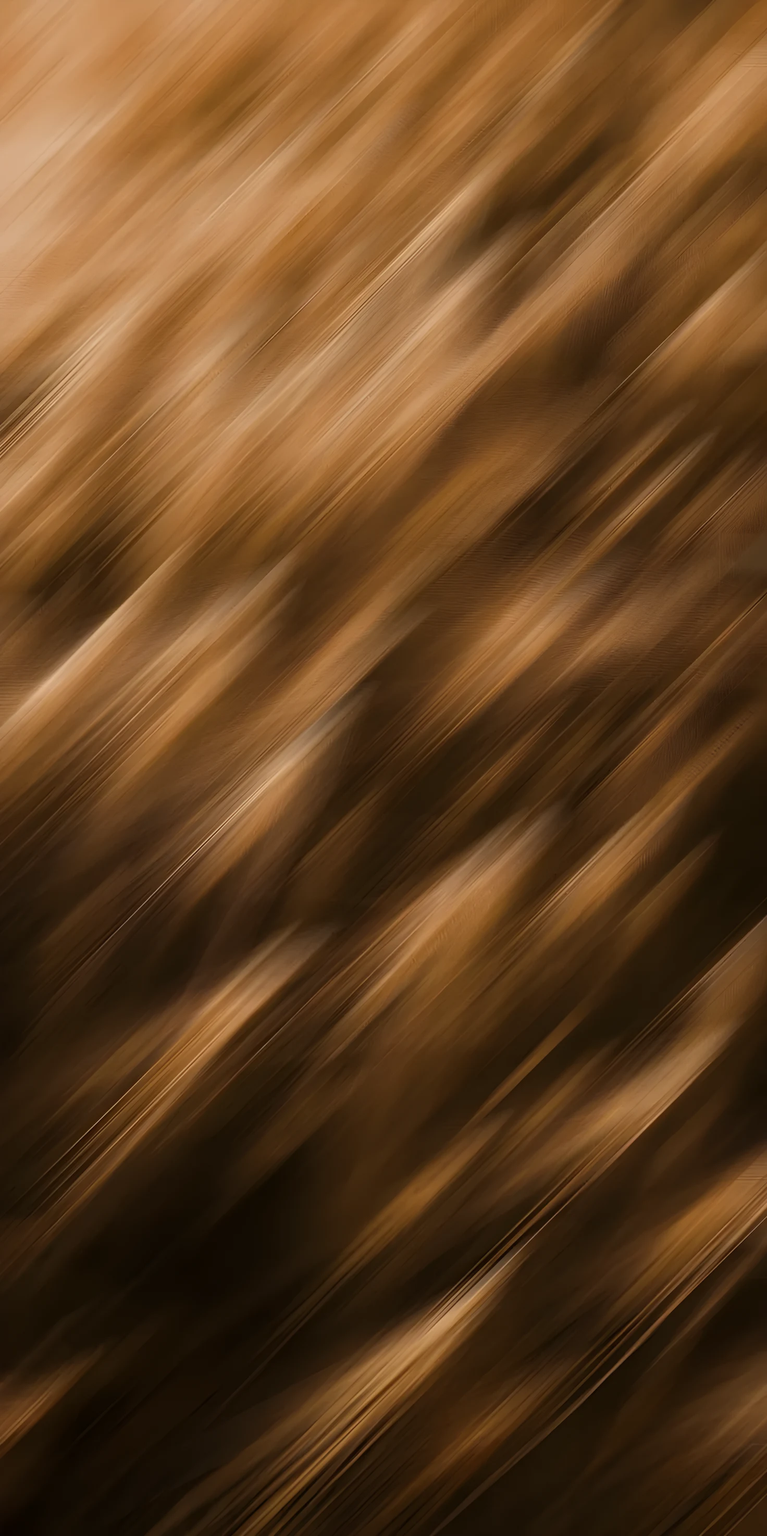
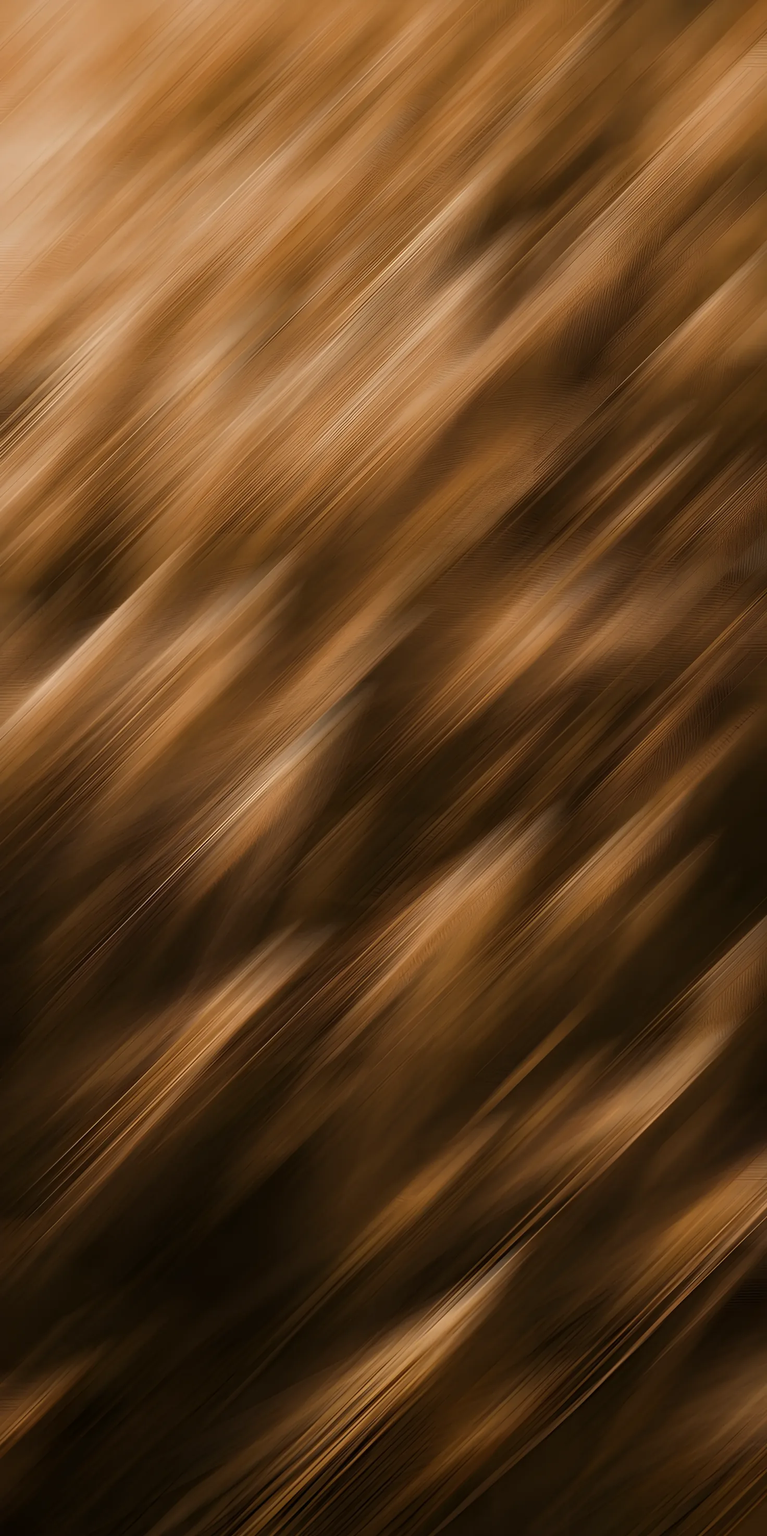
site: DPR2 backgrounds up to 2880 (Austria from Kling, cta/course hero from ESRGAN)
Austria (S11) regenerated in Kling Image 3.0 Omni at 4096 from the Figma source:
reeded glass drawn natively, no moire; a1/a1@2x/a1@3x cut from it.
cta-bg and course/blog hero-bg use the ESRGAN x4 results (f330e01):
cta-bg@2x/@3x (2048/2880), hero-bg@2x/@4x (1472/2944). srcsets extended.

Claude-Session: https://claude.ai/code/session_01As2tBV6Dj9gNXDHR4omdXn

diff --git a/apps/site/components/CourseFlow.tsx b/apps/site/components/CourseFlow.tsx
@@ -727,7 +727,7 @@ export function CoursePage() {
       <Header />
       <main>
         <section className="dark-hero" data-s="k01">
-          <img className="bg" src="/figma/course/hero-bg.webp" srcSet="/figma/course/hero-bg.webp 736w, /figma/course/hero-bg@2x.webp 1472w" sizes="100vw" alt="" />
+          <img className="bg" src="/figma/course/hero-bg.webp" srcSet="/figma/course/hero-bg.webp 736w, /figma/course/hero-bg@2x.webp 1472w, /figma/course/hero-bg@4x.webp 2944w" sizes="100vw" alt="" />
           <div className="shade" />
           <div className="wrap inner">
             <div className="kf-hero-row">
@@ -874,7 +874,7 @@ export function CoursePage() {
         </section>
 
         <section className="kf-includes" id="includes" data-s="k05">
-          <img className="kf-includes-bg" src="/figma/course/hero-bg.webp" srcSet="/figma/course/hero-bg.webp 736w, /figma/course/hero-bg@2x.webp 1472w" sizes="100vw" alt="" />
+          <img className="kf-includes-bg" src="/figma/course/hero-bg.webp" srcSet="/figma/course/hero-bg.webp 736w, /figma/course/hero-bg@2x.webp 1472w, /figma/course/hero-bg@4x.webp 2944w" sizes="100vw" alt="" />
           <div className="kf-includes-shade" />
           <div className="wrap kf-includes-in">
             <h2>Что входит в курс</h2>
@@ -920,7 +920,7 @@ export function CoursePage() {
         </section>
 
         <section className="kf-final" data-s="k07">
-          <img src="/figma/course/cta-bg.webp" srcSet="/figma/course/cta-bg.webp 1024w, /figma/course/cta-bg@2x.webp 2048w" sizes="100vw" alt="" />
+          <img src="/figma/course/cta-bg.webp" srcSet="/figma/course/cta-bg.webp 1024w, /figma/course/cta-bg@2x.webp 2048w, /figma/course/cta-bg@3x.webp 2880w" sizes="100vw" alt="" />
           <div className="kf-includes-shade" />
           <div className="wrap kf-final-in">
             <i className="kf-bar" data-rv="0" />

diff --git a/apps/site/components/ArticleView.tsx b/apps/site/components/ArticleView.tsx
@@ -81,7 +81,7 @@ function Blocks({ blocks }: { blocks: Block[] }) {
           );
         return (
           <aside className="article-cta rv rv-24" key={index}>
-            <img className="bokeh" src="/figma/course/cta-bg.webp" srcSet="/figma/course/cta-bg.webp 1024w, /figma/course/cta-bg@2x.webp 2048w" sizes="100vw" alt="" />
+            <img className="bokeh" src="/figma/course/cta-bg.webp" srcSet="/figma/course/cta-bg.webp 1024w, /figma/course/cta-bg@2x.webp 2048w, /figma/course/cta-bg@3x.webp 2880w" sizes="100vw" alt="" />
             <div className="shade" />
             <h2>{block.title}</h2>
             <p>{block.text}</p>
@@ -459,7 +459,7 @@ export function ArticleView({ article }: { article: Article }) {
             </div>
             <aside className="aside">
               <div className="aside-card is-off" ref={asideRef}>
-                <img className="bokeh" src="/figma/course/cta-bg.webp" srcSet="/figma/course/cta-bg.webp 1024w, /figma/course/cta-bg@2x.webp 2048w" sizes="100vw" alt="" />
+                <img className="bokeh" src="/figma/course/cta-bg.webp" srcSet="/figma/course/cta-bg.webp 1024w, /figma/course/cta-bg@2x.webp 2048w, /figma/course/cta-bg@3x.webp 2880w" sizes="100vw" alt="" />
                 <div className="shade" />
                 <h2>Записаться на тест</h2>
                 <p>286 продуктов, один забор крови, результат через 7–10 дней. Стоимость устанавливает лаборатория.</p>

diff --git a/apps/site/app/report/page.tsx b/apps/site/app/report/page.tsx
@@ -238,7 +238,7 @@ export default function Page() {
             <ReportFaq />
 
             <section data-s="cta" className="rf-cta d-only">
-              <img src="/figma/course/cta-bg.webp" srcSet="/figma/course/cta-bg.webp 1024w, /figma/course/cta-bg@2x.webp 2048w" sizes="100vw" alt="" />
+              <img src="/figma/course/cta-bg.webp" srcSet="/figma/course/cta-bg.webp 1024w, /figma/course/cta-bg@2x.webp 2048w, /figma/course/cta-bg@3x.webp 2880w" sizes="100vw" alt="" />
               <div className="rf-cta-shade" />
               <div className="rf-cta-copy">
                 <h2>Готовы сдать тест или нужно обсудить отчёт?</h2>
@@ -256,7 +256,7 @@ export default function Page() {
               <i />
               <h2>Готовы сдать тест или нужно обсудить отчёт?</h2>
               <p>Выберите лабораторию-партнёра или покажите эту страницу своему врачу.</p>
-              <img src="/figma/course/cta-bg.webp" srcSet="/figma/course/cta-bg.webp 1024w, /figma/course/cta-bg@2x.webp 2048w" sizes="100vw" alt="" />
+              <img src="/figma/course/cta-bg.webp" srcSet="/figma/course/cta-bg.webp 1024w, /figma/course/cta-bg@2x.webp 2048w, /figma/course/cta-bg@3x.webp 2880w" sizes="100vw" alt="" />
               <Link className="btn btn-dark" href="/labs">Где сдать тест</Link>
               <ShareButton />
             </section>

diff --git a/apps/site/components/BlogFeed.tsx b/apps/site/components/BlogFeed.tsx
@@ -506,7 +506,7 @@ export function BlogFeed() {
           <div>
             {featured && featuredAuthor && (
               <Link href={`/blog/${featured.slug}`} className="featured featured-in">
-                <img className="featured-bg" src="/figma/course/hero-bg.webp" srcSet="/figma/course/hero-bg.webp 736w, /figma/course/hero-bg@2x.webp 1472w" sizes="100vw" alt="" />
+                <img className="featured-bg" src="/figma/course/hero-bg.webp" srcSet="/figma/course/hero-bg.webp 736w, /figma/course/hero-bg@2x.webp 1472w, /figma/course/hero-bg@4x.webp 2944w" sizes="100vw" alt="" />
                 <div className="featured-shade" />
                 <div className="featured-photo">
                   <img className="photo-in" src={featured.cover} alt="" />
@@ -630,7 +630,7 @@ export function BlogFeed() {
 
         <section className="wrap cta-band" data-s="b04">
           <article className="cta" ref={ctaRef}>
-            <img className="bokeh" src="/figma/course/cta-bg.webp" srcSet="/figma/course/cta-bg.webp 1024w, /figma/course/cta-bg@2x.webp 2048w" sizes="100vw" alt="" />
+            <img className="bokeh" src="/figma/course/cta-bg.webp" srcSet="/figma/course/cta-bg.webp 1024w, /figma/course/cta-bg@2x.webp 2048w, /figma/course/cta-bg@3x.webp 2880w" sizes="100vw" alt="" />
             <div className="shade" />
             <div>
               <h2>Не уверены, что симптомы связаны с едой?</h2>

diff --git a/apps/site/app/globals.css b/apps/site/app/globals.css
@@ -1017,7 +1017,7 @@ body:has(.mobile-menu) .ls-sticky { display: none !important; }
 .map {
   height: 420px; border-radius: 24px; background:
     linear-gradient(180deg, rgba(248,249,246,.2), rgba(248,249,246,.05)),
-    url('/figma/course/cta-bg@2x.webp') center/cover;
+    url('/figma/course/cta-bg@3x.webp') center/cover;
   border: 1px solid var(--ink-10); position: relative;
 }
 .pin { position: absolute; width: 14px; height: 14px; border-radius: 999px; background: var(--lime); border: 2px solid var(--ink); }
@@ -3401,7 +3401,7 @@ body .m04 .btn { width: auto; height: 48px; padding: 12px 16px; border-radius: 4
 
 /* ==== /specialists sweep (1120:3113 | 1317:6392) ==== */
 @media (min-width: 1101px) {
-  body [data-s="p04"].sp-dark { background-image: url("/figma/course/cta-bg@2x.webp"); background-size: cover; background-position: center; }
+  body [data-s="p04"].sp-dark { background-image: url("/figma/course/cta-bg@3x.webp"); background-size: cover; background-position: center; }
   body [data-s="p09"] .sp-fan, body [data-s="p09"] .sp-fan-cap { display: none; }
 }
 body [data-s="p08"].sp-grey { background: #d7d8cd; }

diff --git a/apps/site/app/adaptive/specialists.css b/apps/site/app/adaptive/specialists.css
@@ -76,7 +76,7 @@
   /* P04: фон-фото и тонировка как на десктопе, 4 шага → сетка 2 × 2, линия скрыта
      (заметка P04: «На 1024 — шаги 2×2, линия скрывается»). */
   [data-s="p04"] .sp-route-line { display: none; }
-  body [data-s="p04"].sp-dark { background-image: url("/figma/course/cta-bg@2x.webp"); background-size: cover; background-position: center; }
+  body [data-s="p04"].sp-dark { background-image: url("/figma/course/cta-bg@3x.webp"); background-size: cover; background-position: center; }
   body [data-s="p04"].sp-dark::before { content: ""; position: absolute; inset: 0; background: rgba(33, 37, 29, 0.86); pointer-events: none; }
   body [data-s="p04"].sp-dark > .wrap { position: relative; z-index: 1; }
   [data-s="p04"] .sp-steps { display: grid; grid-template-columns: repeat(2, minmax(0, 1fr)); gap: 16px; overflow: visible; scroll-snap-type: none; }

diff --git a/apps/site/components/HomePage.tsx b/apps/site/components/HomePage.tsx
@@ -1482,7 +1482,7 @@ export function HomePage() {
             </div>
           </div>
           <div className="aus-photo" data-allow-x>
-            <img className="parallax" src="/figma/austria/a1.webp" srcSet="/figma/austria/a1.webp 1024w, /figma/austria/a1@2x.webp 2048w" sizes="(min-width: 2048px) 50vw, (min-width: 1101px) 1024px, (min-width: 900px) 800px, 100vw" alt="" />
+            <img className="parallax" src="/figma/austria/a1.webp" srcSet="/figma/austria/a1.webp 1024w, /figma/austria/a1@2x.webp 2048w, /figma/austria/a1@3x.webp 2880w" sizes="(min-width: 2048px) 50vw, (min-width: 1101px) 1024px, (min-width: 900px) 800px, 100vw" alt="" />
             <div className="aus-cards">
               {[
                 ["CE-IVDR", "Европейский стандарт для медизделий in vitro диагностики"],

diff --git a/apps/site/components/AuthorsBrowser.tsx b/apps/site/components/AuthorsBrowser.tsx
@@ -191,7 +191,7 @@ export function AuthorsBrowser() {
         </section>
         <section className="wrap cta-band" data-s="au03">
           <article className="cta">
-            <img className="bokeh" src="/figma/course/cta-bg.webp" srcSet="/figma/course/cta-bg.webp 1024w, /figma/course/cta-bg@2x.webp 2048w" sizes="100vw" alt="" />
+            <img className="bokeh" src="/figma/course/cta-bg.webp" srcSet="/figma/course/cta-bg.webp 1024w, /figma/course/cta-bg@2x.webp 2048w, /figma/course/cta-bg@3x.webp 2880w" sizes="100vw" alt="" />
             <div className="shade" />
             <div>
               <h2>Работаете с пациентами? Пройдите курс FOX для специалистов</h2>

diff --git a/apps/site/components/Footer.tsx b/apps/site/components/Footer.tsx
@@ -81,7 +81,7 @@ export function Footer() {
 
   return (
     <footer className="footer" ref={ref}>
-      <img className="bokeh" src="/figma/course/cta-bg.webp" srcSet="/figma/course/cta-bg.webp 1024w, /figma/course/cta-bg@2x.webp 2048w" sizes="100vw" alt="" />
+      <img className="bokeh" src="/figma/course/cta-bg.webp" srcSet="/figma/course/cta-bg.webp 1024w, /figma/course/cta-bg@2x.webp 2048w, /figma/course/cta-bg@3x.webp 2880w" sizes="100vw" alt="" />
       <div className="shade" />
       <div className="footer-top">
         <div className="brand">
